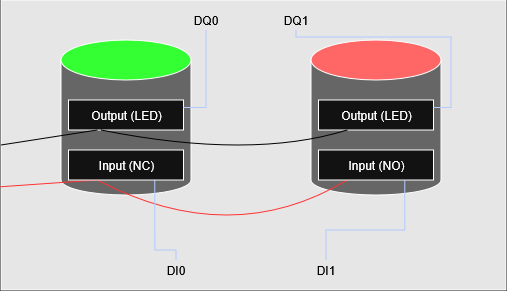
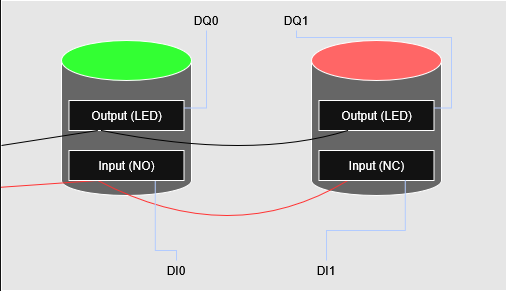
a few changes and fixes and publishing next blog

diff --git a/_posts/2026-08-11-ot-lab-design.md b/_posts/2026-08-11-ot-lab-design.md
@@ -2,7 +2,7 @@
 layout: post
 title: "OT Homelab - Design"
 subtitle: "The what and the why"
-date: 2026-08-12
+date: 2026-08-11
 description: "The design of my OT Security homelab including hardware, networking, and software."
 ---
 
@@ -21,6 +21,7 @@ description: "The design of my OT Security homelab including hardware, networkin
   - [Factory/OT](#factoryot)
   - [DMZ](#dmz)
   - [IT](#it)
+- [Final Thoughts](#final-thoughts)
 
 
 ## Goals
@@ -57,25 +58,25 @@ This table encompasses nearly all of the parts of my build. All the links are fo
 | 24VDC PSU | | I picked up a Siemens SITOP PSU100L on eBay - massively overspecced for this project, but I got it cheap and it's built like a tank. Any PSU that can supply 24VDC at a couple of amps will do the job. You'll also need a way to power it from mains - I stripped a kettle lead and wired it straight in. |
 | DIN Rail | [RS Components (500mm)](https://uk.rs-online.com/web/p/din-rails/0467406) | I used a 250mm rail on the top for power components and a 500mm rail on the bottom for everything else. |
 | Piece of wood | | A 12×500×500mm sheet of ply that I had cut at my local B&Q for a fiver. Does the job. |
-| Green LED Push Button | [eBay](https://www.ebay.co.uk/itm/297362516760?var=594872514861) | Works as both input and output - the LED is wired to a PLC output, the button to an input. I wired it as NC (normally closed). |
-| Red LED Push Button | [eBay](https://www.ebay.co.uk/itm/297362516760?var=594872514866) | Same as above. Wired as NO (normally open). |
-| 24VDC Fan | [Amazon](https://www.amazon.co.uk/dp/B0DPQKPLF9?ref=ppx_yo2ov_dt_b_fed_asin_title) | Simple on/off fan as a physical output to demonstrate control. Could be swapped for a PWM fan if your PLC supports it. |
+| Green LED Push Button | [eBay](https://www.ebay.co.uk/itm/297362516760?var=594872514861) | Works as both input and output - the LED is wired to a PLC output, the button to an input. I wired it as NO (normally open). |
+| Red LED Push Button | [eBay](https://www.ebay.co.uk/itm/297362516760?var=594872514866) | Same as above. Wired as NC (normally closed). It's wiried NC so that broken wire or loose ferrule opens the circuit and reads just like a press - a fault stops the fan spinning rather than just breaking the button. |
+| 24VDC Fan | [Amazon](https://www.amazon.co.uk/dp/B0DPQKPLF9?ref=ppx_yo2ov_dt_b_fed_asin_title) | Simple on/off fan as a physical output to demonstrate control. Could be swapped for a PWM fan if your PLC supports it (which mine does, I just couldn't find a 24VDC PWM fan that was big enough). |
 | Terminal Blocks | [RS Components](https://uk.rs-online.com/web/p/din-rail-terminal-blocks/2624161) | Used for distributing power and routing signals around the panel. I bought 20 and used most of them. |
 | Jumper Bars | [RS Components](https://uk.rs-online.com/web/p/din-rail-terminal-accessories/0102374) | For bridging power across adjacent terminals. Cut them down to the length you need. |
-| MCB | [RS Components](https://uk.rs-online.com/web/p/mcbs/2650204) | Adds overcurrent protection and doubles as a clean on/off switch for the whole panel. Worth having. |
-| Earth Terminal Blocks | [RS Components](https://uk.rs-online.com/web/p/din-rail-terminal-blocks/8725628) | For earthing the PLC, PSU, and DIN rails. Don't skip this. |
+| MCB | [RS Components](https://uk.rs-online.com/web/p/mcbs/2650204) | Adds overcurrent protection and doubles as a clean on/off switch for the whole panel. |
+| Earth Terminal Blocks | [RS Components](https://uk.rs-online.com/web/p/din-rail-terminal-blocks/8725628) | For earthing the PLC, PSU, and DIN rails. Don't skip this!! |
 | Red Wire | [Amazon](https://www.amazon.co.uk/dp/B0FQP5QHZ7?ref=ppx_yo2ov_dt_b_fed_asin_title&th=1) | +24VDC. I bought 10m. |
 | Black Wire | [Amazon](https://www.amazon.co.uk/dp/B0FQP6H7Z7?ref=ppx_yo2ov_dt_b_fed_asin_title&th=1) | 0VDC. I bought 10m. |
 | Ground Wire | [Amazon](https://www.amazon.co.uk/dp/B01MYBMAQ5?ref=ppx_yo2ov_dt_b_fed_asin_title&th=1) | Earth/ground connections. |
-| Bootlace Ferrules* | | Highly recommended - they make a much cleaner and more reliable connection in spring terminals than bare wire ends. Get a crimper to go with them. |
-| Button Box* | [Amazon](https://www.amazon.co.uk/dp/B07WH9VJZ5?ref=ppx_yo2ov_dt_b_fed_asin_title) | Plastic enclosure for mounting the buttons neatly on the panel. |
-| Wire Duct* | [CEF](https://www.cef.co.uk/catalogue/products/4349444-25mm-x-25mm-open-slotted-trunking-grey-2m-length) | Slotted trunking to keep wiring tidy and routed cleanly. Makes the build look the part. |
-| Mini PC / Server* | | For running the SCADA, gateway, MQTT broker, and firewall. I used a Proxmox server with VMs, but any Linux machine will do. |
-| Network Switch* | | To connect the PLC, server, and laptop on the factory network. I grabbed a Weidmuller IE SW BL05 STX unmanaged switch - it was a random eBay find. A managed switch would give you a lot more to play with from a security perspective, but costs accordingly. |
-| Stand* | [Amazon](https://www.amazon.co.uk/dp/B0B6VKS7DJ?ref=ppx_yo2ov_dt_b_fed_asin_title) | A monitor stand to prop the board up at a sensible angle. |
+| Bootlace Ferrules | | Highly recommended - they make a much cleaner and more reliable connection in spring terminals than bare wire ends. Get a crimper to go with them. |
+| Button Box | [Amazon](https://www.amazon.co.uk/dp/B07WH9VJZ5?ref=ppx_yo2ov_dt_b_fed_asin_title) | Plastic enclosure for mounting the buttons neatly on the panel. |
+| Wire Duct | [CEF](https://www.cef.co.uk/catalogue/products/4349444-25mm-x-25mm-open-slotted-trunking-grey-2m-length) | Slotted trunking to keep wiring tidy and routed cleanly - makes the build a lot cleaner looking. |
+| Mini PC / Server | | For running the SCADA, gateway, MQTT broker, and firewall. I used a Proxmox server with VMs, but any Linux machine will do. |
+| Network Switch | | To connect the PLC, server, and laptop on the factory network. I grabbed a Weidmuller IE SW BL05 STX unmanaged switch - it was a random eBay find. A managed switch would give you a lot more to play with from a security perspective, but costs accordingly. |
+| Stand | [Amazon](https://www.amazon.co.uk/dp/B0B6VKS7DJ?ref=ppx_yo2ov_dt_b_fed_asin_title) | An art easel for holding up the board. |
 
 ### Diagram
-Below is a simple drawing of my hardware set up with wiring. It's not the prettiest thing but it should give you a rough idea of how everything is wired up.
+Below is a simple drawing of my hardware set up with wiring. It's not the prettiest thing but it should give you a rough idea of how everything is wired up. 
 
 ![A simple diagram of the hardware and wiring](/blog/res/ot-lab-hardware-wiring.png)
 
@@ -86,13 +87,11 @@ This diagram is just for the buttons, since it isn't clear from the pictures or 
 
 ## The Network
 ### Segments
-I split my network into three segments - Factory/OT, DMZ, and IT.
+I split my network into three segments - Factory/OT, DMZ, and IT. The network is split using an OPNSense firewall running virtually on our server. I had to pick up a USB NIC to make this work - not a great solution for a real factory, but does the job well for our homelab. 
 
-The Factory network is where the PLC and switch live.
-
-The DMZ network hosts the SCADA, UNS, and any other industrial systems.
-
-The IT network hosts read-only systems like dashboards.
+- The Factory network is where the PLC and switch live.
+- The DMZ network hosts the SCADA, Unified Namespace (UNS), and any other industrial systems.
+- The IT network hosts read-only systems like dashboards.
 
 This is to mirror what is commonly found in industrial networks, where the OT network is separated from the IT network via a DMZ, and any traffic wanting to travel from IT<->OT has to first go through the DMZ.
 
@@ -103,12 +102,12 @@ This is to mirror what is commonly found in industrial networks, where the OT ne
 |IT|192.168.0.0/22|Host IT Systems|
 
 
+### Diagram
+![Network Diagram](/blog/res/ot-lab-network-diagram.png)
+
 > *Why don't you put the SCADA system in the OT network?*
 
 Good question, and you totally could. I might even do that in the future. In reality, it depends on your company, past network design decisions, and business requirements. There's never a 'one-size-fits-all' for network design - it will *always* be at the behest of the business, even if it's unwise.
-
-### Diagram
-![Network Diagram](/blog/res/ot-lab-network-diagram.png)
 
 ## The Systems
 ### Factory/OT
@@ -134,16 +133,12 @@ The DMZ is where the data actually starts moving around. Everything here runs in
 
 I wanted Ignition to be able to subscribe directly to the gateway via MQTT, but the plugin required to do that does not support maker edition. Therefore, I had to compromise and have the SCADA system connect directly to the PLC over OPC-UA, breaking the UNS best practice.
 
-
 So how does a value actually get from a button on my panel up to a dashboard? Roughly like this:
 
-> A tag changes on the **PLC** (say the fan kicks on). NeuronEX is polling that tag over **OPC-UA**, sees the change, and publishes it to **HiveMQ** as an **MQTT** message. From there anything subscribed to the broker can pick it up.
-
-That last part - "anything subscribed can pick it up" - is the whole point of a UNS, and it's what the IT segment takes advantage of.
-
+> A tag changes on the **PLC** (say the fan kicks on). NeuronEX is polling that tag over **OPC-UA**, sees the change, and publishes it to **HiveMQ** as an **MQTT** message. From there anything subscribed to the broker can pick it up (e.g. InfluxDB in the DMZ network, to then be displayed by Grafana)
 
 ### IT
-The IT network is the cheap seats. These are the read-only consumers - they're allowed to watch the plant, but they've no business touching it. That's the entire reason this stack lives up in IT rather than down in the DMZ or OT: it only ever pulls data, never pushes it.
+The IT network is all read, no write. They're allowed to watch the plant, but they've no business touching it. That's the entire reason this stack lives up in IT rather than down in the DMZ or OT: it only ever pulls data, never pushes it.
 
 It's another Ubuntu Server VM running two things in Docker:
 
@@ -151,3 +146,6 @@ It's another Ubuntu Server VM running two things in Docker:
 - **Caddy** - reverse proxy for serving applications over pretty subdomains, and providing HTTPS.
 
 This part of the network is for the enterprise folk who need to see the data, but should never be able to write anything back down the network.
+
+## Final Thoughts
+In this article we've laid out our plans for the lab - from hardware to networking to systems. The next several articles will cover the building process, starting with putting together the physical rig.

diff --git a/_posts/2026-09-23-ot-lab-attacking-plc.md b/_posts/2026-09-23-ot-lab-attacking-plc.md
@@ -17,7 +17,6 @@ description: "Looking at different attack vectors for the SIEMEN S7-1200 PLC CPU
   - [S7comm](#s7comm)
   - [OPC-UA](#opc-ua)
   - [Modbus](#modbus)
-    - [Man-in-the-Middle](#man-in-the-middle)
 - [Final Thoughts](#final-thoughts)
 
 
@@ -255,6 +254,13 @@ We can also snoop around the webpage to do some data gathering while we're here.
 - Any Uploaded Files (including recipes)
 - and so much more!
 
+This does all seem pretty scary, but lets put it in context:
+- Web access can be disabled, and often times is.
+- Even if it's enabled, it is often behind credential based access.
+- Even if the access is open, it often isn't exposed to the internet.
+
+Now of course, there are instances where it all goes wrong, but with a few good security controls, this type of risk can be nullified. 
+
 ### S7comm
 We can take advantage of the S7comm protocol to manipulate the digital outputs at will.
 Using [this](https://github.com/tijldeneut/ICSSecurityScripts/blob/master/S7-1200-Workshop.py) script, we can simply decide which outputs we want on and off, and run it.
@@ -278,10 +284,7 @@ Plain old TCP Modbus is about as insecure as you can get. Within the Modbus Prot
 
 This makes Modbus quite a vulnerable protocol to run in your environment. This risk is naturally reduced due to defense in depth - with modbus traffic not usually coming past level 2, but if an attacker got that deep into your environment (or came in through the backdoor!) they can have a lot of fun playing with Modbus.
 
-We could try a few different attacks here, but I want to focus on a MITM tampering attack - because it's cool.
-
-#### Man-in-the-Middle
-We start by performing an ARP Poisining attack (or ARP Spoofing) to trick the modbus server into thinking I'm the client, and vice versa. This means, when the server attempts to resolve the MAC address of the client, it will instead get my IP, sending the traffic to me instead. From there, I can tamper with it, and then send it onwards.
+We could try a few different attacks here, but I want to focus on a MITM tampering attack. It's a slightly complex attack, so I'll be dedicating a whole article to it. We'll also look at a tool I made to help pull it off.
 
 ## Final Thoughts
 TODO

diff --git a/_posts/2026-08-19-ot-lab-build-rig.md b/_posts/2026-08-19-ot-lab-build-rig.md
@@ -24,6 +24,11 @@ description: "A look at building the OT Homelab itself"
 ## Goals
 I wanted to build a "full" factory system on one piece of 500x500mm plywood. Of course, I can't fit an *entire* factory onto a plank of wood, but a PSU, PLC, Switch, some I/O, some terminals, and a few cable runs would be enough to get me most of the way there.
 If you want the more detailed breakdown of all the parts, check out the [build design](https://cdino.net/blog/2026/ot-lab-design) article.
+1. Test our hardware
+2. Mount it to the board
+3. Enable the services we want on the PLC
+4. Program our PLC
+
 
 ## The Rig
 ### First Boot
@@ -115,3 +120,4 @@ The fourth section does the opposite. When the fan is on, the green LED is on, a
 
 ## Final Thoughts
 If you're more experienced than I am with PLCs, you might be tearing your hair out reading this article. If so, please feel free to contact me and tell me all the things I've done wrong so I can improve it.
+In the next article, we'll build the UNS system!

diff --git a/_posts/2026-09-30-ot-lab-modbus-mitm.md b/_posts/2026-09-30-ot-lab-modbus-mitm.md
@@ -1,12 +1,27 @@
 ---
 layout: post
-title: "Modbus MITM Attacks"
+title: "Modbus MitM Attacks"
 subtitle: "'Trust me bro, I'm totally the real server bro, trust me bro.'"
 date: 2099-09-30
 description: "TODO"
 --- 
 
 - [Goals](#goals)
+- [What even is a MitM attack??](#what-even-is-a-mitm-attack)
+  - [ARP](#arp)
+- [Performing an ARP Spoof (or ARP Poison)](#performing-an-arp-spoof-or-arp-poison)
+  - [Sniffing Traffic](#sniffing-traffic)
+- [Modifying Traffic](#modifying-traffic)
 
 ## Goals
+1. Understand how Modbus is vulnerable to MitM attacks
+2. Successfully perform ARP spoofing to sniff Modbus traffic
+3. Modify traffic on the wire to cause chaos in the factory
 
+## What even is a MitM attack??
+### ARP
+
+## Performing an ARP Spoof (or ARP Poison)
+### Sniffing Traffic
+
+## Modifying Traffic

diff --git a/_posts/2026-10-14-ot-lab-hardening-systems-and-network.md b/_posts/2026-10-14-ot-lab-hardening-systems-and-network.md
@@ -1,0 +1,20 @@
+---
+layout: post
+title: "OT Systems and Network Hardening"
+subtitle: ""
+date: 2099-10-14
+description: "TODO"
+--- 
+
+- [Goals](#goals)
+- [Checklist](#checklist)
+- [Final Thoughts](#final-thoughts)
+
+## Goals
+
+## Checklist
+- [ ] x
+- [ ] Y
+- [ ] Z
+
+## Final Thoughts
